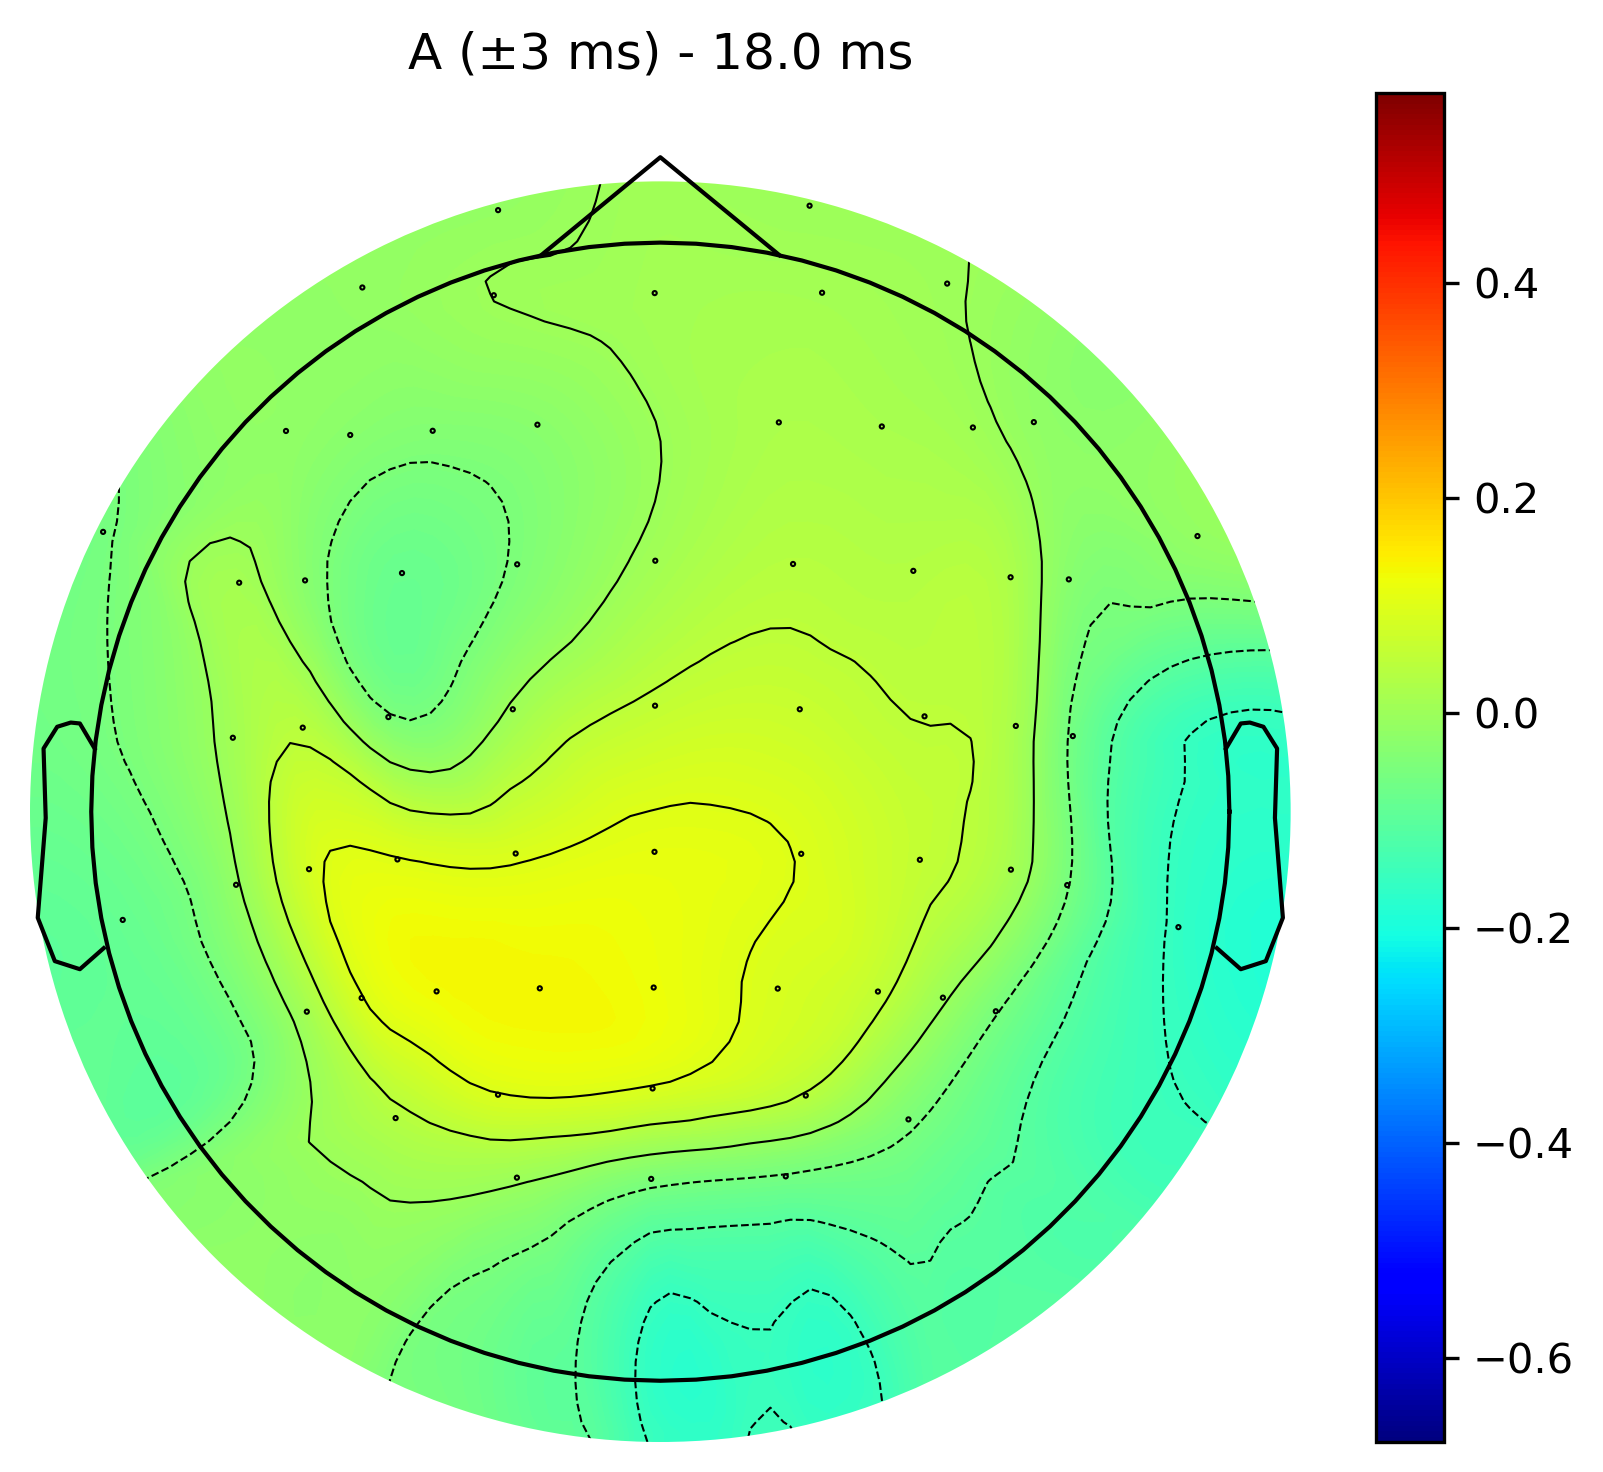
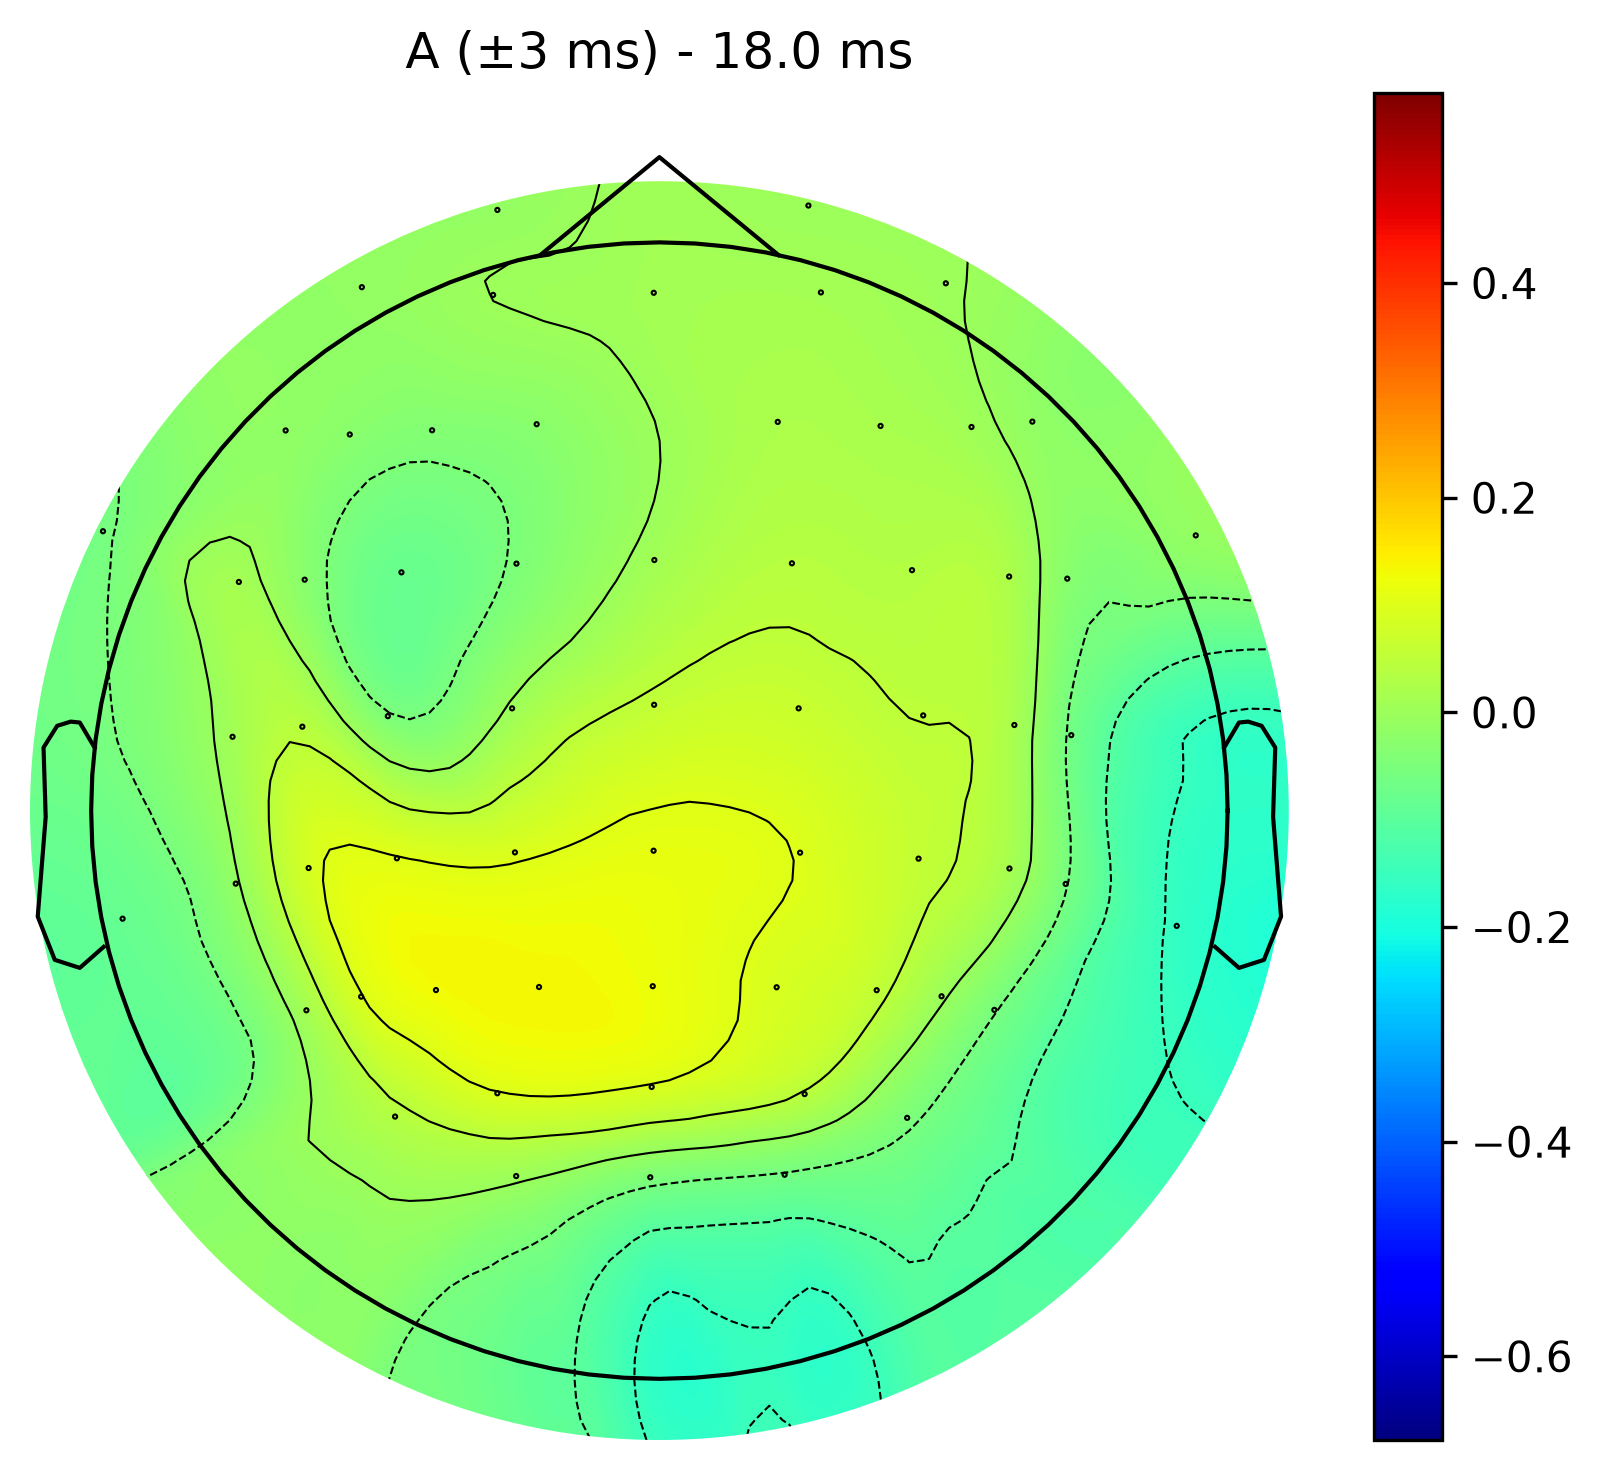
update codice python - multi erp

diff --git a/ERP_topography_map_W_FSResult_Around.py b/ERP_topography_map_W_FSResult_Around.py
@@ -1,0 +1,334 @@
+# -*- coding: utf-8 -*-
+"""ERP spatial maps A/W and continuous FSResult from BrainVision EEG.
+
+Spyder script with independent ERP A/W topographies.
+Run all (F5) or execute sections separately.
+Place BrainVision files alongside the script or change eeg_file.
+"""
+
+
+
+# %% Imports
+# This cell imports the Python libraries required for the entire EEG analysis workflow.
+
+import pandas as pd
+import numpy as np
+import mne
+import matplotlib.pyplot as plt
+from pathlib import Path
+import warnings
+warnings.filterwarnings("ignore", category=RuntimeWarning)
+
+# %% Function definitions
+# This function opens a BrainVision EEG recording with data loaded into memory for subsequent processing.
+
+def read_prep_eeg(eeg_file_path_vhdr, low_freq=None, high_freq=None):
+    """Load BrainVision data, classify auxiliary channels and retain EEG channels."""
+    raw = mne.io.read_raw_brainvision(eeg_file_path_vhdr, preload=True)
+    auxiliary_types = {"Mano DX": "misc", "Mano SX": "misc", "ECG": "ecg", "pressione": "misc"}
+    raw.set_channel_types({name: kind for name, kind in auxiliary_types.items() if name in raw.ch_names})
+    if low_freq is not None or high_freq is not None:
+        raw = raw.copy().filter(l_freq=low_freq, h_freq=high_freq)
+    return raw.pick("eeg")
+
+# This function builds the event related potential from the EEG recording by aligning data segments with annotated events.
+
+def get_erp(raw, epoch_pre_ms, epoch_post_ms, baseline_start_ms,
+            baseline_end_ms, min_trigger_distance):
+    """Average event-aligned EEG epochs and remove the original post-trigger baseline."""
+    sfreq = float(raw.info["sfreq"])
+    pre = int((epoch_pre_ms / 1000.0) * sfreq)
+    post = int((epoch_post_ms / 1000.0) * sfreq)
+    if pre < 0 or post <= 0:
+        raise ValueError("Epoch durations must satisfy pre >= 0 and post > 0.")
+
+    events, _ = mne.events_from_annotations(raw)
+    if len(events) == 0:
+        raise ValueError("No annotated events found in the EEG recording.")
+    samples = events[:, 0]
+    clean = [samples[0]]
+    for sample in samples[1:]:
+        if sample - clean[-1] > min_trigger_distance:
+            clean.append(sample)
+
+    epochs = []
+    for trigger in clean:
+        if trigger - pre < 0 or trigger + post > raw.n_times:
+            continue
+        epoch, _ = raw[:, trigger - pre:trigger + post]
+        epochs.append(epoch)
+    if not epochs:
+        raise ValueError("No complete epochs remain after trigger filtering.")
+
+    erp = np.mean(np.stack(epochs, axis=0), axis=0)
+    b_start = pre + int((baseline_start_ms / 1000.0) * sfreq)
+    b_end = pre + int((baseline_end_ms / 1000.0) * sfreq)
+    if not (0 <= b_start < b_end <= erp.shape[1]):
+        raise ValueError("Baseline interval must lie inside the ERP epoch.")
+    baseline = np.mean(erp[:, b_start:b_end], axis=1, keepdims=True)
+    time_epoch = np.arange(-pre, post) / sfreq
+    return erp - baseline, time_epoch
+
+# This function constructs the spatial ERP vector A without plotting any figure.
+
+def compute_A(erp_mean, time_epoch, erp_time, erp_around=0.0, normalize=True):
+    """Select the time neighborhood, average each electrode, and optionally normalize."""
+    if not (np.isfinite(erp_around) and 0.0 <= erp_around <= 5.0):
+        raise ValueError("erp_around must be between 0 and 5 milliseconds, inclusive.")
+    if not np.isfinite(erp_time):
+        raise ValueError("erp_time must be a finite number of milliseconds.")
+    time_epoch = np.asarray(time_epoch, dtype=float)
+    erp_mean = np.asarray(erp_mean, dtype=float)
+    if time_epoch.ndim != 1 or time_epoch.size == 0:
+        raise ValueError("time_epoch must contain at least one time sample.")
+    if erp_mean.ndim != 2 or erp_mean.shape[1] != time_epoch.size:
+        raise ValueError("ERP columns and time_epoch samples must match.")
+    target_s = erp_time / 1000.0
+    if target_s < time_epoch[0] or target_s > time_epoch[-1]:
+        raise ValueError(f"erp_time={erp_time} ms is outside the epoch time range.")
+    closest_index = int(np.argmin(np.abs(time_epoch - target_s)))
+    actual_time_ms = float(time_epoch[closest_index] * 1000.0)
+    if erp_around == 0:
+        selected_indices = np.array([closest_index], dtype=int)
+    else:
+        radius_s = erp_around / 1000.0
+        # Include both boundaries when they coincide with sampled times.
+        tolerance_s = max(1e-12, np.finfo(float).eps * max(1.0, abs(target_s)) * 10)
+        selected_indices = np.flatnonzero(
+            (time_epoch >= target_s - radius_s - tolerance_s) &
+            (time_epoch <= target_s + radius_s + tolerance_s)
+        )
+        if not selected_indices.size:
+            raise ValueError("No recorded ERP samples fall inside the requested time window.")
+    # Average across selected time samples, retaining one mean per EEG channel.
+    potential = erp_mean[:, selected_indices].mean(axis=1)
+    if normalize:
+        denominator = potential.sum()
+        if np.isclose(denominator, 0.0, atol=1e-15, rtol=0):
+            raise ValueError("Cannot normalize A: ERP electrode values sum to (nearly) zero.")
+        A = potential / denominator
+    else:
+        A = potential.copy()
+    return A, potential, actual_time_ms, selected_indices
+
+# This function converts the previously computed spatial ERP vector A into its Moore Penrose pseudoinverse W.
+
+def compute_W(A):
+    """Compute Moore-Penrose pseudoinverse of a single topographic row vector."""
+    A = np.asarray(A, dtype=float).reshape(-1)
+    if not np.any(A):
+        raise ValueError("Cannot compute useful W from an all-zero A vector.")
+    return np.linalg.pinv(A.reshape(1, -1)).reshape(-1)
+
+# This function plots one scalp topography from a supplied vector of electrode values, without recomputing ERP data, A, or W.
+
+def plot_topography(raw, values, time_ms, title_prefix="A", cmap="jet",
+                    save_path=None, dpi=300, view_min=None, view_max=None):
+    """Plot exactly one 2D scalp map; do not calculate or normalize its values."""
+    values = np.asarray(values, dtype=float).reshape(-1)
+    info = raw.info.copy()
+    picks = mne.pick_types(info, eeg=True)
+    info = mne.pick_info(info, picks)
+    if values.size != len(info.ch_names):
+        raise ValueError(f"Map has {values.size} values but EEG has {len(info.ch_names)} channels.")
+    montage = mne.channels.make_standard_montage("standard_1020")
+    info.set_montage(montage, on_missing="ignore")
+
+    if view_min is not None and view_max is not None and view_min >= view_max:
+        raise ValueError("view_min must be smaller than view_max.")
+    fig, ax = plt.subplots(figsize=(6, 5))
+    im, _ = mne.viz.plot_topomap(
+        values, info, axes=ax, show=False, cmap=cmap,
+        vlim=(view_min, view_max)
+    )
+    ax.set_title(f"{title_prefix} - {time_ms:.1f} ms")
+    fig.colorbar(im, ax=ax)
+    fig.tight_layout()
+    if save_path is not None:
+        fig.savefig(save_path, dpi=dpi, bbox_inches="tight")
+    plt.show()
+    return fig, ax
+
+# %% Analysis configuration
+# This cell centralizes run parameters so the analysis can be configured without editing function bodies.
+
+eeg_file = str(Path(__file__).resolve().parent / "Smits11.vhdr")
+low_freq = 1.0
+high_freq = None
+
+# Recording frequency: populated from raw.info after loading, never hard-coded
+sfreq = None
+
+# Epoch and baseline windows, in milliseconds relative to the event
+epoch_pre_ms = 20
+epoch_post_ms = 100
+baseline_start_ms = 11
+baseline_end_ms = 14
+min_trigger_distance = 100  # samples; preserve original strict > comparison
+
+# ERP centers, in milliseconds; one independent A and W per center
+erp_numerosity = 2
+erp_values = [20, 23]
+erp_around = 1.0         # milliseconds, allowed range [0, 5]
+normalize_erp = True
+FS_flag = False           # True: compute and plot one FSResult per W
+
+# Figure settings
+cmap = "jet"
+view_scale_target = "A"   # "A" or "W": which group uses manual view_min/view_max
+view_min = None           # manual lower limit for selected group; None = automatic
+view_max = None           # manual upper limit for selected group; None = automatic
+save_figures = True
+
+# %% Read EEG
+# This cell loads the configured BrainVision recording and applies filtering settings.
+
+raw = read_prep_eeg(eeg_file, low_freq=low_freq, high_freq=high_freq)
+sfreq = float(raw.info["sfreq"])
+print(f"EEG sampling frequency: {sfreq:g} Hz")
+print(f"EEG channels: {len(raw.ch_names)}")
+
+# %% Compute ERP
+# This cell computes the trial averaged ERP waveform using the prepared EEG recording and the centrally defined epoch, baseline, and trigger settings.
+
+erp_mean, time_epoch = get_erp(
+    raw, epoch_pre_ms, epoch_post_ms, baseline_start_ms,
+    baseline_end_ms, min_trigger_distance
+)
+print("ERP matrix shape:", erp_mean.shape)
+print("ERP time range (ms):", time_epoch[0] * 1000, "to", time_epoch[-1] * 1000)
+
+# %% Plot ERP waveforms
+# This cell visualizes the complete baseline corrected ERP time course for each retained EEG channel.
+
+for i in range(erp_mean.shape[0]):
+    plt.plot(time_epoch, erp_mean[i])
+plt.xlabel("Time (s)")
+plt.ylabel("Amplitude (V)")
+plt.show()
+
+# %% Compute A and W for all ERP centers
+# Validate the requested number of ERP centers and calculate each A/W pair independently.
+
+if isinstance(erp_numerosity, bool) or not isinstance(erp_numerosity, (int, np.integer)) or erp_numerosity < 1:
+    raise ValueError("erp_numerosity must be a positive integer.")
+if len(erp_values) != erp_numerosity:
+    raise ValueError("erp_values must contain exactly erp_numerosity entries.")
+if not isinstance(FS_flag, (bool, np.bool_)):
+    raise TypeError("FS_flag must be a boolean (True or False).")
+
+results = []  # ordered list of per-center dictionaries, including optional FSResult
+for idx, erp_time in enumerate(erp_values, start=1):
+    A, A_raw, actual_erp_time, selected_erp_indices = compute_A(
+        erp_mean, time_epoch, erp_time, erp_around=erp_around,
+        normalize=normalize_erp
+    )
+    W = compute_W(A)
+    results.append({
+        "erp_time": erp_time,
+        "actual_erp_time": actual_erp_time,
+        "selected_erp_indices": selected_erp_indices,
+        "A": A,
+        "A_raw": A_raw,
+        "W": W,
+        "FSResult": None,
+    })
+    print(f"\nERP {idx}/{erp_numerosity}: center {erp_time:g} ms "
+          f"(nearest sampled {actual_erp_time:.3f} ms)")
+    print(f"Window: [{erp_time-erp_around:.3f}, "
+          f"{erp_time+erp_around:.3f}] ms; "
+          f"samples averaged: {len(selected_erp_indices)}")
+    print("A shape:", A.shape, "W shape:", W.shape)
+    print("A:", A)
+    print("W:", W)
+
+# %% Color bounds for A and W
+# A and W have independent group-wide ranges. Manual limits apply only to
+# view_scale_target; the other group always uses its automatic common range.
+
+if view_scale_target not in ("A", "W"):
+    raise ValueError('view_scale_target must be "A" or "W".')
+if view_min is not None and not np.isfinite(view_min):
+    raise ValueError("view_min must be finite or None.")
+if view_max is not None and not np.isfinite(view_max):
+    raise ValueError("view_max must be finite or None.")
+
+color_bounds = {}
+for group in ("A", "W"):
+    group_values = np.concatenate([item[group] for item in results])
+    if not np.all(np.isfinite(group_values)):
+        raise ValueError(f"All {group} coefficients must be finite.")
+    group_min = float(np.min(group_values))
+    group_max = float(np.max(group_values))
+    if group == view_scale_target:
+        group_min = group_min if view_min is None else float(view_min)
+        group_max = group_max if view_max is None else float(view_max)
+    if group_min >= group_max:
+        # Constant maps require a nonzero color interval for plotting.
+        if group_min == group_max and (group != view_scale_target or
+                                       (view_min is None and view_max is None)):
+            padding = max(abs(group_min) * 0.01, 1e-12)
+            group_min -= padding
+            group_max += padding
+        else:
+            raise ValueError(f"Invalid {group} color range: min must be < max.")
+    color_bounds[group] = (group_min, group_max)
+    print(f"Common {group} color scale: [{group_min:.6g}, {group_max:.6g}]")
+
+# %% Plot the individual A and W topographies
+# Display one independent A map and one independent W map for each requested ERP center.
+
+for idx, item in enumerate(results, start=1):
+    center = item["erp_time"]
+    suffix = f"{idx:02d}_ERP_{center:g}ms"
+    item["fig_A"], item["ax_A"] = plot_topography(
+        raw, item["A"], item["actual_erp_time"],
+        title_prefix=f"A #{idx} (±{erp_around:g} ms)", cmap=cmap,
+        save_path=f"A_{suffix}.png" if save_figures else None,
+        view_min=color_bounds["A"][0], view_max=color_bounds["A"][1],
+    )
+    item["fig_W"], item["ax_W"] = plot_topography(
+        raw, item["W"], item["actual_erp_time"],
+        title_prefix=f"W #{idx} (±{erp_around:g} ms)", cmap=cmap,
+        save_path=f"W_{suffix}.png" if save_figures else None,
+        view_min=color_bounds["W"][0], view_max=color_bounds["W"][1],
+    )
+
+# %% Optional FSResult computation and plots
+# FSResult is generated only when FS_flag is True.
+
+if FS_flag:
+    eeg_data = raw.get_data()
+    time = np.arange(eeg_data.shape[1]) / sfreq
+    for idx, item in enumerate(results, start=1):
+        W = item["W"]
+        if W.size != eeg_data.shape[0]:
+            raise ValueError(f"W #{idx} and EEG must have the same number of channels.")
+        item["FSResult"] = W @ eeg_data
+        print(f"FSResult #{idx} (ERP {item['erp_time']:g} ms): "
+              f"shape {item['FSResult'].shape}")
+        print("FSResult:", item["FSResult"])
+        fig, ax = plt.subplots(figsize=(16, 5))
+        ax.plot(time, item["FSResult"], linewidth=0.5)
+        ax.set_title(f"Segnale FSResult #{idx} - ERP {item['erp_time']:g} ms")
+        ax.set_xlabel("Tempo (secondi)")
+        ax.set_ylabel("Ampiezza FSResult")
+        ax.grid(True, alpha=0.3)
+        fig.tight_layout()
+        plt.show()
+        item["fig_FSResult"] = fig
+        item["ax_FSResult"] = ax
+else:
+    print("FS_flag=False: FSResult computation and plots skipped.")
+
+# %% Compare A and W for each ERP center
+# Report the coefficient-wise difference and Euclidean distance for every computed A/W pair.
+
+for idx, item in enumerate(results, start=1):
+    diff_A_W = item["A"] - item["W"]
+    distanza = np.linalg.norm(diff_A_W)
+    item["diff_A_W"] = diff_A_W
+    item["distanza"] = distanza
+    print(f"ERP #{idx} ({item['erp_time']:g} ms):")
+    print("Differenza elemento per elemento:", diff_A_W)
+    print("Distanza euclidea:", distanza)
